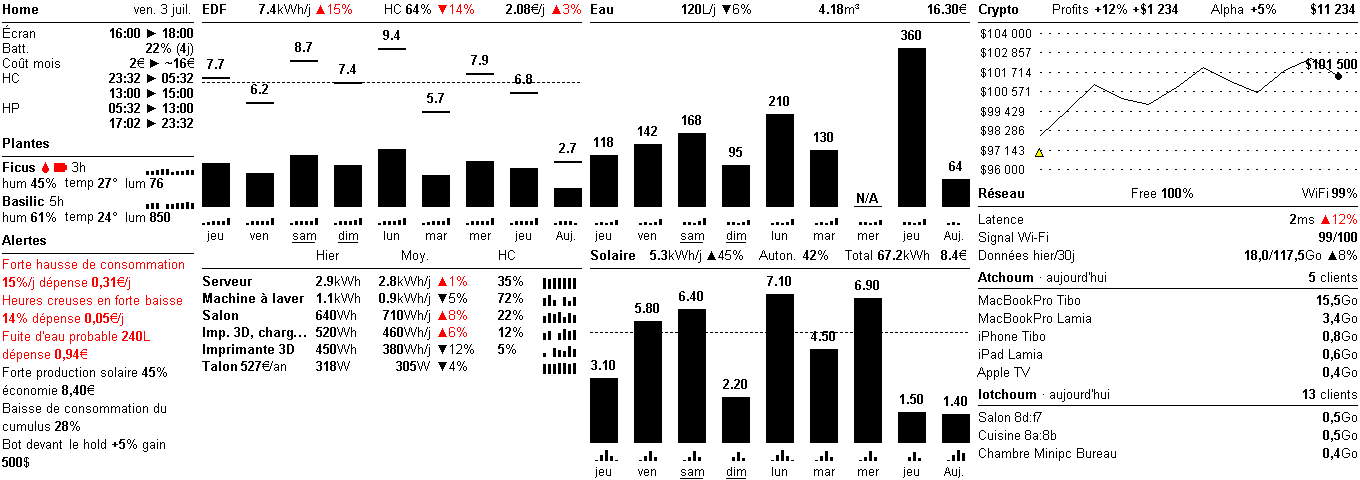
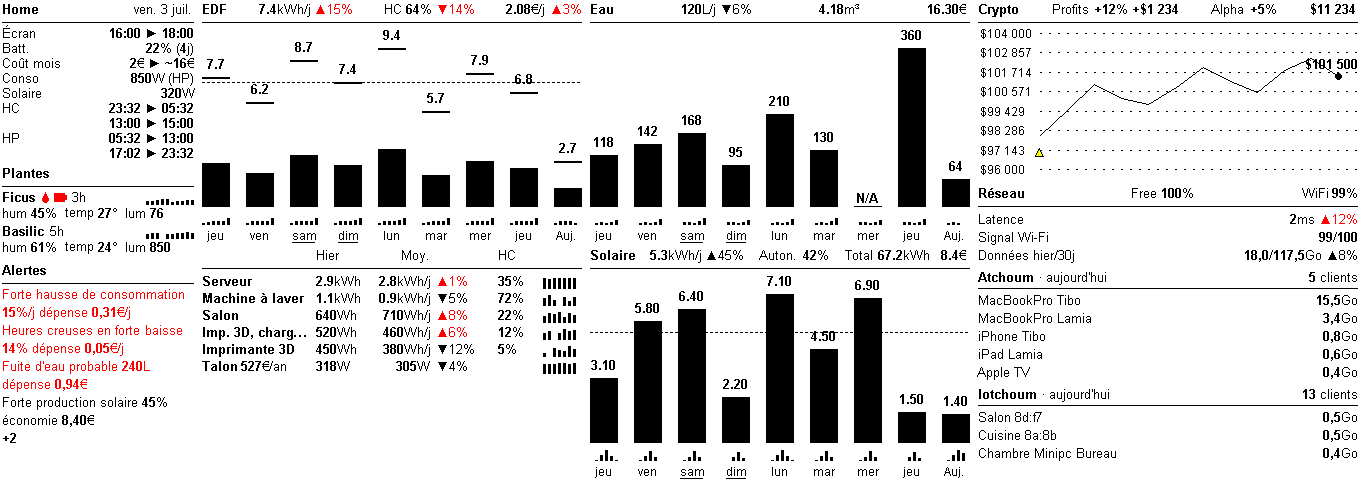
feat(home): live snapshot lines — instantaneous draw and PV watts
The screen was entirely historical; the Home panel now carries a pulse:
'Conso 850W (HP)' (last PAPP + the current tariff period from the live
PTEC) and 'Solaire 320W' (last inverter heartbeat). Each domain exposes
a live_power() query guarded by a 15-min freshness window, so a stale
stream hides its line instead of showing old watts. Attached on both
the scheduled build and the ESP32 pull path. Goldens unchanged (no MQTT
stream in the fixtures — the lines are simply absent); preview
regenerated with representative live values.

diff --git a/server/app/dashboard_data.py b/server/app/dashboard_data.py
@@ -6,7 +6,7 @@ domain; every optional domain contributes its own fields via attach().
 from datetime import datetime, timedelta
 
 from app import alerts as alerts_engine
-from app import battery
+from app import battery, solar
 from app.system.config import DAYS_FR, MONTHS_FR, PARIS_TZ
 from app.registry import CORE, OPTIONAL
 from app.system.scheduler import current_screen_refresh, next_screen_refresh, next_screen_wake
@@ -16,6 +16,20 @@ def _date_text(now: datetime) -> str:
     """Today as 'mar. 2 juin' — French, lowercase (e-paper rule), no locale
     dependency (Docker images ship C.UTF-8 only)."""
     return f"{DAYS_FR[now.weekday()].lower()}. {now.day} {MONTHS_FR[now.month - 1]}"
+
+
+def _attach_live(home: dict, now: datetime) -> None:
+    """The 'right now' lines of the Home panel: the meter's instantaneous draw
+    (+ current HC/HP period) and the live PV watts. Each line simply stays absent
+    when its source has no fresh sample (listener down, night for the inverter's
+    keep-alive gaps, cold start)."""
+    grid = CORE.live_power(now)
+    if grid:
+        home["live_grid"] = grid
+    if solar.enabled():
+        pv = solar.live_power(now)
+        if pv:
+            home["live_solar"] = pv
 
 
 def _attach_net_cost(home: dict, data: dict, now: datetime) -> None:
@@ -89,6 +103,7 @@ def build_home_live(now: datetime, data: dict | None = None) -> dict:
     }
     _attach_tariff(home)
     _attach_battery(home, now)
+    _attach_live(home, now)
     if data:
         _attach_net_cost(home, data, now)
     return home
@@ -109,6 +124,7 @@ def build_dashboard_data(days: list[dict]) -> dict:
     }
     _attach_tariff(data["home"])
     _attach_battery(data["home"], now)
+    _attach_live(data["home"], now)
     for integration in OPTIONAL:
         if integration.enabled():
             integration.attach(data)

diff --git a/server/app/rendering/renderer.py b/server/app/rendering/renderer.py
@@ -677,6 +677,20 @@ def _draw_home_panel(draw, fonts, home, region_top) -> int:
             segs += [(" ► ~", "regular", BLACK),
                      (net["proj_text"], "bold", BLACK), ("€", "regular", BLACK)]
         row([("Coût mois", "regular", BLACK)], segs, y)
+    # Live snapshot: the meter's instantaneous draw with the current tariff
+    # period, and the live PV watts. Absent lines mean no fresh sample.
+    live = home.get("live_grid")
+    if live:
+        y += line_h
+        segs = [(live["watts_text"], "bold", BLACK), ("W", "regular", BLACK)]
+        if live.get("period"):
+            segs.append((f" ({live['period']})", "regular", BLACK))
+        row([("Conso", "regular", BLACK)], segs, y)
+    pv = home.get("live_solar")
+    if pv:
+        y += line_h
+        row([("Solaire", "regular", BLACK)],
+            [(pv["watts_text"], "bold", BLACK), ("W", "regular", BLACK)], y)
     for line in home.get("tariff") or []:
         y += line_h
         rng = [(line["start_text"], "bold", BLACK),

diff --git a/server/app/electricity/query.py b/server/app/electricity/query.py
@@ -22,6 +22,22 @@ def build_core(days: list[dict]) -> dict:
                        papp_profiles=profiles)
 
 
+LIVE_MAX_AGE_S = 15 * 60  # a live figure older than this is stale — hide it
+
+
+def live_power(now: datetime | None = None) -> dict | None:
+    """The meter's instantaneous draw for the Home panel: last PAPP (W) + the
+    current tariff period, or None when no fresh frame exists (listener down,
+    cold start) — the line simply disappears rather than showing stale watts."""
+    if command.last_papp is None or not command.last_message_time:
+        return None
+    now = now or datetime.now(PARIS_TZ)
+    seen = datetime.fromisoformat(command.last_message_time)
+    if (now - seen).total_seconds() > LIVE_MAX_AGE_S:
+        return None
+    return {"watts_text": f"{round(command.last_papp)}", "period": command._period}
+
+
 def status() -> dict:
     """Status fragment for the /status endpoint."""
     from app.electricity import TOPIC

diff --git a/server/app/solar/query.py b/server/app/solar/query.py
@@ -24,6 +24,21 @@ def attach(data: dict):
                                        pv_profiles=profiles))
 
 
+LIVE_MAX_AGE_S = 15 * 60  # a live figure older than this is stale — hide it
+
+
+def live_power(now: datetime | None = None) -> dict | None:
+    """The inverter's instantaneous PV watts for the Home panel, or None when no
+    fresh heartbeat exists — the line disappears rather than showing stale watts."""
+    if command.last_pv_watts is None or not command.last_solar_report:
+        return None
+    now = now or datetime.now(PARIS_TZ)
+    seen = datetime.fromisoformat(command.last_solar_report)
+    if (now - seen).total_seconds() > LIVE_MAX_AGE_S:
+        return None
+    return {"watts_text": f"{round(command.last_pv_watts)}"}
+
+
 def status() -> dict:
     from app.solar import ENABLED
 

diff --git a/server/scripts/gen_preview.py b/server/scripts/gen_preview.py
@@ -80,6 +80,11 @@ data["home"].setdefault("battery", {
     "avg_text": "4j 16h", "record_text": "5j 10h", "cycles": 3,
 })
 
+# No live MQTT streams here; inject the Home live-snapshot lines (instantaneous
+# meter draw + current period, live PV watts).
+data["home"].setdefault("live_grid", {"watts_text": "850", "period": "HP"})
+data["home"].setdefault("live_solar", {"watts_text": "320"})
+
 # The dev DB may hold no Linky history (build_core always emits the 9 calendar
 # days, data or not); inject a representative EDF stacked HC/HP week whenever
 # no complete day carries data so the preview shows a full consumption chart.

diff --git a/server/app/electricity/__init__.py b/server/app/electricity/__init__.py
@@ -30,10 +30,10 @@ def enabled() -> bool:
 
 
 from app.electricity.command import current_tariff, init_schema, is_off_peak, load_days, start  # noqa: E402
-from app.electricity.query import build_core, status  # noqa: E402
+from app.electricity.query import build_core, live_power, status  # noqa: E402
 
 __all__ = [
     "enabled", "init_schema", "start", "load_days", "build_core", "status",
-    "is_off_peak", "current_tariff", "TOPIC", "ENABLED",
+    "is_off_peak", "current_tariff", "live_power", "TOPIC", "ENABLED",
     "PRICE_HP", "PRICE_HC", "PRICE_ABO_MONTHLY",
 ]

diff --git a/server/app/electricity/command.py b/server/app/electricity/command.py
@@ -27,6 +27,7 @@ MAX_CATCHUP_KW = 12      # scales the cap with the gap: a delta after an MQTT
 
 # Runtime state surfaced by query.status().
 last_message_time = ""
+last_papp = None  # most recent PAPP (VA ≈ W) — the Home panel's live draw figure
 last_error = ""
 last_hchc = None
 last_hphp = None
@@ -147,6 +148,8 @@ def _on_tic(reading: dict, now: datetime | None = None):
     _state["last_frame"] = now
 
     if papp is not None:
+        global last_papp
+        last_papp = papp
         _slot["papp_sum"] += papp
         _slot["papp_n"] += 1
 

diff --git a/server/app/solar/__init__.py b/server/app/solar/__init__.py
@@ -27,9 +27,9 @@ def enabled() -> bool:
 
 
 from app.solar.command import init_schema, start  # noqa: E402
-from app.solar.query import attach, status  # noqa: E402
+from app.solar.query import attach, live_power, status  # noqa: E402
 
 __all__ = [
-    "enabled", "init_schema", "start", "attach", "status",
+    "enabled", "init_schema", "start", "attach", "status", "live_power",
     "ENABLED", "EMAIL", "PASSWORD", "DEVICE_SN", "API_HOST", "PRICE_HP",
 ]
